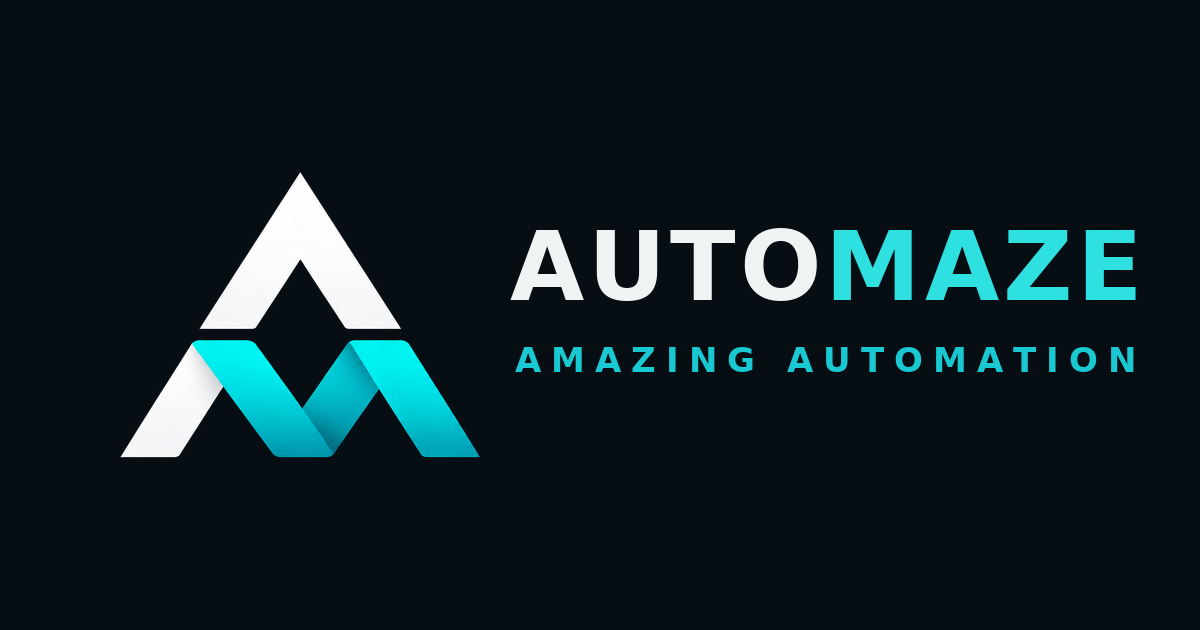
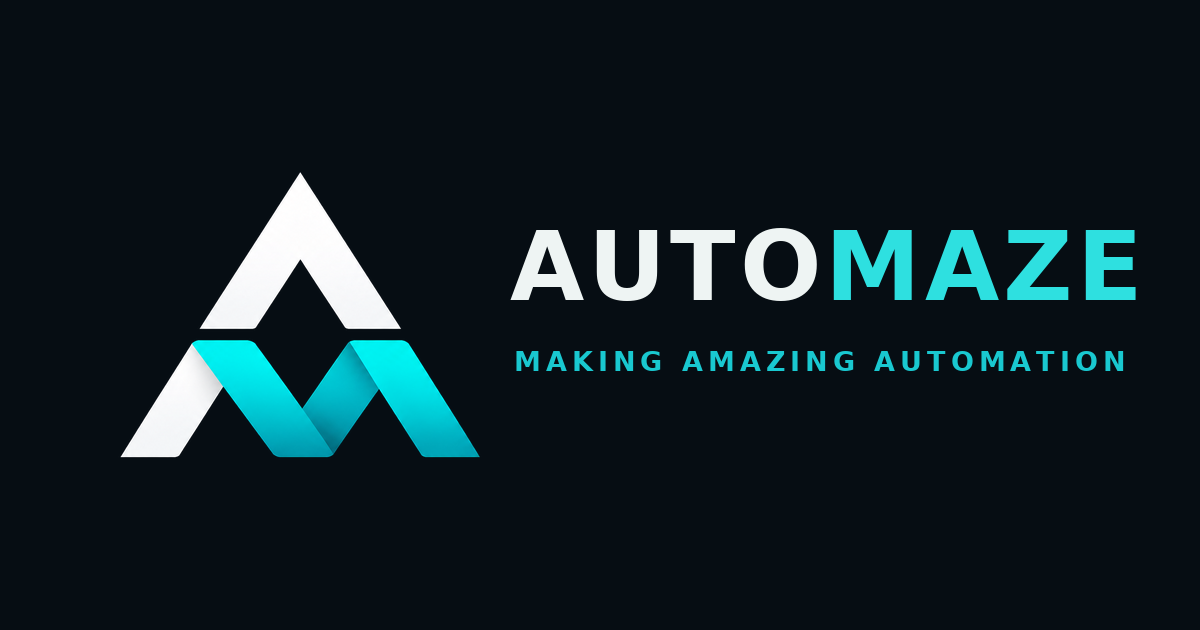
Contact UX: WhatsApp new tab, copy-email toast, form email via Apps Script

Changed region(s): [[0.4317, 0.5429, 0.9558, 0.6032]]

diff --git a/index.html b/index.html
@@ -24,7 +24,7 @@
 <meta property="og:image" content="https://automaze.co.il/og-image.png">
 <meta property="og:image:width" content="1200">
 <meta property="og:image:height" content="630">
-<meta property="og:image:alt" content="Automaze — Amazing Automation">
+<meta property="og:image:alt" content="Automaze — Making Amazing Automation">
 
 <!-- Twitter -->
 <meta name="twitter:card" content="summary_large_image">
@@ -53,7 +53,7 @@
   "priceRange": "₪₪",
   "areaServed": { "@type": "Country", "name": "Israel" },
   "address": { "@type": "PostalAddress", "addressCountry": "IL" },
-  "slogan": "Amazing Automation",
+  "slogan": "Making Amazing Automation",
   "knowsLanguage": ["he", "en"],
   "makesOffer": [
     { "@type": "Offer", "itemOffered": { "@type": "Service", "name": "אוטומציה עסקית" } },
@@ -116,7 +116,7 @@ section{padding:96px 20px;position:relative}
 header{position:fixed;inset:0 0 auto 0;z-index:50;transition:.3s;border-bottom:1px solid transparent}
 header.scrolled{background:rgba(6,13,19,.85);backdrop-filter:blur(14px);border-bottom-color:var(--line)}
 .nav{display:flex;align-items:center;justify-content:space-between;max-width:var(--max);margin-inline:auto;padding:16px 20px;gap:20px}
-.logo{height:40px;width:auto;display:block}
+.logo{height:54px;width:auto;display:block}
 .nav-links{display:flex;gap:28px;align-items:center}
 .nav-links a{color:var(--muted);font-weight:500;font-size:.96rem;transition:.2s}
 .nav-links a:hover{color:var(--text)}
@@ -307,7 +307,7 @@ form .btn-primary{width:100%;justify-content:center;margin-top:6px}
 /* ===== footer ===== */
 footer{padding:60px 20px 30px;border-top:1px solid var(--line)}
 .fgrid{max-width:var(--max);margin-inline:auto;display:grid;grid-template-columns:1.5fr 1fr 1fr;gap:36px}
-footer img.logo{height:38px;margin-bottom:14px}
+footer img.logo{height:50px;margin-bottom:14px}
 footer p{color:var(--muted);font-size:.92rem;max-width:340px}
 .fcol h4{font-size:.86rem;letter-spacing:.1em;text-transform:uppercase;color:var(--muted-2);margin-bottom:14px}
 .fcol a{display:block;color:var(--muted);font-size:.94rem;margin-bottom:10px;transition:.2s}
@@ -317,6 +317,10 @@ footer p{color:var(--muted);font-size:.92rem;max-width:340px}
 /* floating whatsapp */
 .wa-float{position:fixed;inset-block-end:22px;inset-inline-start:22px;z-index:40;width:58px;height:58px;border-radius:50%;background:#25d366;display:grid;place-items:center;box-shadow:0 10px 30px rgba(37,211,102,.4);transition:.2s}
 .wa-float:hover{transform:scale(1.08)}
+
+/* toast */
+.toast{position:fixed;inset-block-end:96px;inset-inline-start:50%;transform:translateX(50%) translateY(8px);background:var(--panel-2);border:1px solid var(--line-2);color:var(--text);padding:12px 22px;border-radius:999px;font-weight:600;font-size:.92rem;z-index:60;opacity:0;pointer-events:none;transition:.3s;box-shadow:0 10px 30px rgba(0,0,0,.45);white-space:nowrap}
+.toast.show{opacity:1;transform:translateX(50%) translateY(0)}
 .wa-float svg{width:30px;height:30px;fill:#fff}
 
 /* reveal */
@@ -355,7 +359,7 @@ footer p{color:var(--muted);font-size:.92rem;max-width:340px}
     </div>
     <div class="nav-cta">
       <a href="#contact" class="btn btn-ghost">צרו קשר</a>
-      <a href="https://wa.me/972544497165?text=%D7%94%D7%99%D7%99%20Automaze%2C%20%D7%90%D7%A9%D7%9E%D7%97%20%D7%9C%D7%A9%D7%9E%D7%95%D7%A2%20%D7%A2%D7%9C%20%D7%90%D7%95%D7%98%D7%95%D7%9E%D7%A6%D7%99%D7%94" class="btn btn-primary">ייעוץ חינם</a>
+      <a href="https://wa.me/972544497165?text=%D7%94%D7%99%D7%99%20Automaze%2C%20%D7%90%D7%A9%D7%9E%D7%97%20%D7%9C%D7%A9%D7%9E%D7%95%D7%A2%20%D7%A2%D7%9C%20%D7%90%D7%95%D7%98%D7%95%D7%9E%D7%A6%D7%99%D7%94" target="_blank" rel="noopener" class="btn btn-primary">ייעוץ חינם</a>
       <button class="hamb" id="hamb" aria-label="תפריט"><span></span><span></span><span></span></button>
     </div>
   </nav>
@@ -376,7 +380,7 @@ footer p{color:var(--muted);font-size:.92rem;max-width:340px}
       <p class="lead">העובד שלא ישן ולא לוקח חופש — אוטומציה שעושה את העבודה במקומכם: כל משימה שחוזרת על עצמה, פשוטה או מורכבת — מענה ללקוחות, חשבוניות, דוחות, תיאומים, מעקבים וחיבור בין מערכות — קורית מעכשיו לבד, בלי שתצטרכו להבין שום דבר טכני</p>
       <div class="hero-cta">
         <a href="#contact" class="btn btn-primary">קבעו שיחת ייעוץ חינם →</a>
-        <a href="https://wa.me/972544497165" class="btn btn-wa">
+        <a href="https://wa.me/972544497165" target="_blank" rel="noopener" class="btn btn-wa">
           <svg width="18" height="18" viewBox="0 0 24 24" fill="currentColor"><path d="M.057 24l1.687-6.163a11.867 11.867 0 01-1.587-5.946C.16 5.335 5.495 0 12.05 0a11.817 11.817 0 018.413 3.488 11.824 11.824 0 013.48 8.414c-.003 6.557-5.338 11.892-11.893 11.892a11.9 11.9 0 01-5.688-1.448L.057 24z"/></svg>
           WhatsApp
         </a>
@@ -632,14 +636,14 @@ footer p{color:var(--muted);font-size:.92rem;max-width:340px}
       <h2>בואו נתחיל ממיפוי אחד</h2>
       <p>שיחה קצרה ללא התחייבות — נבין איפה העבודה הידנית נתקעת ונבדוק איזה פתרון הכי מתאים לך. מענה תוך יום עסקים.</p>
       <div class="cmeans">
-        <a class="cmean" href="https://wa.me/972544497165">
+        <a class="cmean" href="https://wa.me/972544497165" target="_blank" rel="noopener">
           <div class="ic">💬</div><div><b>WhatsApp</b><small>זמין בכל שעות היממה</small></div>
         </a>
         <a class="cmean" href="tel:[phone redacted]">
           <div class="ic">📞</div><div><b>054-449-7165</b><small>א׳–ה׳ 09:00–18:00</small></div>
         </a>
-        <a class="cmean" href="mailto:[email redacted]">
-          <div class="ic">✉️</div><div><b>[email redacted]</b><small>מענה תוך יום עסקים</small></div>
+        <a class="cmean" href="#" id="copyEmail" role="button">
+          <div class="ic">✉️</div><div><b>[email redacted]</b><small>לחיצה מעתיקה את הכתובת</small></div>
         </a>
       </div>
     </div>
@@ -693,12 +697,12 @@ footer p{color:var(--muted);font-size:.92rem;max-width:340px}
     </div>
   </div>
   <div class="fbar">
-    <span>© <span id="yr"></span> Automaze · Amazing Automation · כל הזכויות שמורות</span>
+    <span>© <span id="yr"></span> Automaze · Making Amazing Automation · כל הזכויות שמורות</span>
     <span>נבנה עבור עסקים שרוצים לעבוד חכם, לא קשה.</span>
   </div>
 </footer>
 
-<a class="wa-float" href="https://wa.me/[phone redacted]" aria-label="WhatsApp">
+<a class="wa-float" href="https://wa.me/[phone redacted]" target="_blank" rel="noopener" aria-label="WhatsApp">
   <svg viewBox="0 0 24 24"><path d="M.057 24l1.687-6.163a11.867 11.867 0 01-1.587-5.946C.16 5.335 5.495 0 12.05 0a11.817 11.817 0 018.413 3.488 11.824 11.824 0 013.48 8.414c-.003 6.557-5.338 11.892-11.893 11.892a11.9 11.9 0 01-5.688-1.448L.057 24zm6.597-3.807c1.676.995 3.276 1.591 5.392 1.592 5.448 0 9.886-4.434 9.889-9.885.002-5.462-4.415-9.89-9.881-9.892-5.452 0-9.887 4.434-9.889 9.884a9.86 9.86 0 001.519 5.281l-.999 3.648 3.74-.981a9.87 9.87 0 00.71.353zm11.387-5.464c-.074-.124-.272-.198-.57-.347-.297-.149-1.758-.868-2.031-.967-.272-.099-.47-.149-.669.149-.198.297-.768.967-.941 1.165-.173.198-.347.223-.644.074-.297-.149-1.255-.462-2.39-1.475-.883-.788-1.48-1.761-1.653-2.059-.173-.297-.018-.458.13-.606.134-.133.297-.347.446-.521.151-.172.2-.296.3-.495.099-.198.05-.372-.025-.521-.075-.148-.669-1.611-.916-2.206-.242-.579-.487-.501-.669-.51l-.57-.01c-.198 0-.52.074-.792.372s-1.04 1.016-1.04 2.479 1.065 2.876 1.213 3.074c.149.198 2.095 3.2 5.076 4.487.709.306 1.263.489 1.694.626.712.226 1.36.194 1.872.118.571-.085 1.758-.719 2.006-1.413.248-.695.248-1.29.173-1.414z"/></svg>
 </a>
 
@@ -740,14 +744,38 @@ function calc(){
   I('totalYear').textContent=nf((opsMo+leadMo)*12);
 }
 [emp,hr,leads,deal].forEach(s=>s.addEventListener('input',calc));calc();
-// form (front-end demo: opens mailto + shows success)
-document.getElementById('leadForm').addEventListener('submit',function(ev){
+// toast helper
+function toast(t){let el=document.getElementById('toast');if(!el){el=document.createElement('div');el.id='toast';el.className='toast';document.body.appendChild(el);}el.textContent=t;el.classList.add('show');clearTimeout(el._t);el._t=setTimeout(()=>el.classList.remove('show'),2600);}
+// email button → copy to clipboard
+document.getElementById('copyEmail').addEventListener('click',function(ev){
   ev.preventDefault();
-  const d=new FormData(this);
-  const body=`שם: ${d.get('name')||''}%0Aטלפון: ${d.get('phone')||''}%0Aעסק: ${d.get('biz')||''}%0Aהודעה: ${d.get('msg')||''}`;
-  window.location.href=`mailto:[email redacted]?subject=פנייה%20חדשה%20מהאתר%20-%20Automaze&body=${body}`;
-  document.getElementById('formFields').style.display='none';
-  document.getElementById('formOk').style.display='block';
+  const em='[email redacted]';
+  (navigator.clipboard&&navigator.clipboard.writeText?navigator.clipboard.writeText(em):Promise.reject()).then(
+    ()=>toast('📋 כתובת המייל הועתקה ללוח'),
+    ()=>{window.location.href='mailto:'+em;}
+  );
+});
+// form → email via Google Apps Script (see FORM-EMAIL-SETUP.md). Empty = mailto fallback.
+const FORM_ENDPOINT='https://script.google.com/macros/s/AKfycbyOcZXw-089vvUoiw3pFkLuXetONAZ0OlYhOwgls9eh9kyMWc8q7XwVF_Rgmy3awWzg/exec';
+document.getElementById('leadForm').addEventListener('submit',async function(ev){
+  ev.preventDefault();
+  const f=this,btn=f.querySelector('button[type=submit]');
+  const done=()=>{document.getElementById('formFields').style.display='none';document.getElementById('formOk').style.display='block';};
+  if(!FORM_ENDPOINT){
+    const d=new FormData(f);
+    const body=`שם: ${d.get('name')||''}%0Aטלפון: ${d.get('phone')||''}%0Aעסק: ${d.get('biz')||''}%0Aתחום: ${d.get('topic')||''}%0Aהודעה: ${d.get('msg')||''}`;
+    window.location.href=`mailto:[email redacted]?subject=פנייה%20חדשה%20מהאתר%20-%20Automaze&body=${body}`;
+    done();return;
+  }
+  btn.disabled=true;btn.textContent='שולח…';
+  try{
+    const res=await fetch(FORM_ENDPOINT,{method:'POST',body:new FormData(f)});
+    if(!res.ok)throw new Error('bad status');
+    done();
+  }catch(err){
+    btn.disabled=false;btn.textContent='שליחה — ואחזור אליך →';
+    toast('⚠️ השליחה נכשלה — נסו שוב או כתבו לנו בוואטסאפ');
+  }
 });
 </script>
 </body>

diff --git a/FORM-EMAIL-SETUP.md b/FORM-EMAIL-SETUP.md
@@ -1,0 +1,70 @@
+# Form → Email setup (Google Apps Script)
+
+The contact form posts to a small Google Apps Script "Web App" that emails every lead to [email redacted]. No API key is needed — the script runs inside your Google Workspace account and uses its built-in mail service. One-time setup, ~5 minutes.
+
+## 1. Create the script
+
+1. Go to https://script.google.com while logged into the Google Workspace account.
+2. Click **New project**, name it `Automaze Leads Mailer`.
+3. Delete the default code and paste:
+
+```javascript
+const TO = '[email redacted]';
+
+function doPost(e) {
+  const p = (e && e.parameter) || {};
+  const body =
+    'שם: '    + (p.name  || '') + '\n' +
+    'טלפון: ' + (p.phone || '') + '\n' +
+    'עסק: '   + (p.biz   || '') + '\n' +
+    'תחום: '  + (p.topic || '') + '\n' +
+    'הודעה: ' + (p.msg   || '') + '\n\n' +
+    '— נשלח מטופס האתר automaze.co.il';
+  MailApp.sendEmail({
+    to: TO,
+    subject: 'ליד חדש מהאתר — ' + (p.name || 'ללא שם'),
+    body: body
+  });
+  return ContentService
+    .createTextOutput(JSON.stringify({ ok: true }))
+    .setMimeType(ContentService.MimeType.JSON);
+}
+```
+
+4. Save (Ctrl+S).
+
+## 2. Deploy as Web App
+
+1. Click **Deploy → New deployment**.
+2. Gear icon → select type **Web app**.
+3. Settings — these two matter:
+   - **Execute as: Me** (the script sends mail from your account)
+   - **Who has access: Anyone** (required so the website can post to it; the URL is unguessable and the script can only send mail to you)
+4. Click **Deploy**, approve the authorization prompts (it will warn the app is unverified — that's normal for your own scripts; click Advanced → Go to project).
+5. Copy the **Web app URL** (looks like `https://script.google.com/macros/s/AKfycb.../exec`).
+
+## 3. Connect the website
+
+In `index.html`, find this line in the script at the bottom:
+
+```javascript
+const FORM_ENDPOINT='';
+```
+
+Paste the URL between the quotes:
+
+```javascript
+const FORM_ENDPOINT='https://script.google.com/macros/s/AKfycb.../exec';
+```
+
+Commit and push. Until the URL is set, the form falls back to the old mailto behavior, so the site keeps working either way.
+
+## 4. Test
+
+Submit the form on the live site — the email should arrive within seconds. Check spam the first time.
+
+## Notes
+
+- The TO address must be a real mailbox. If [email redacted] isn't set up in Workspace yet, put your personal address in the script temporarily — it's a one-line change, no redeploy of the site needed (but you must click Deploy → Manage deployments → edit → New version in Apps Script after changing script code).
+- Quota: Workspace accounts can send ~1,500 emails/day via Apps Script (free Gmail: 100/day) — far more than enough.
+- If you later want leads in a Google Sheet too, the same script can append a row — ask Claude to add it.